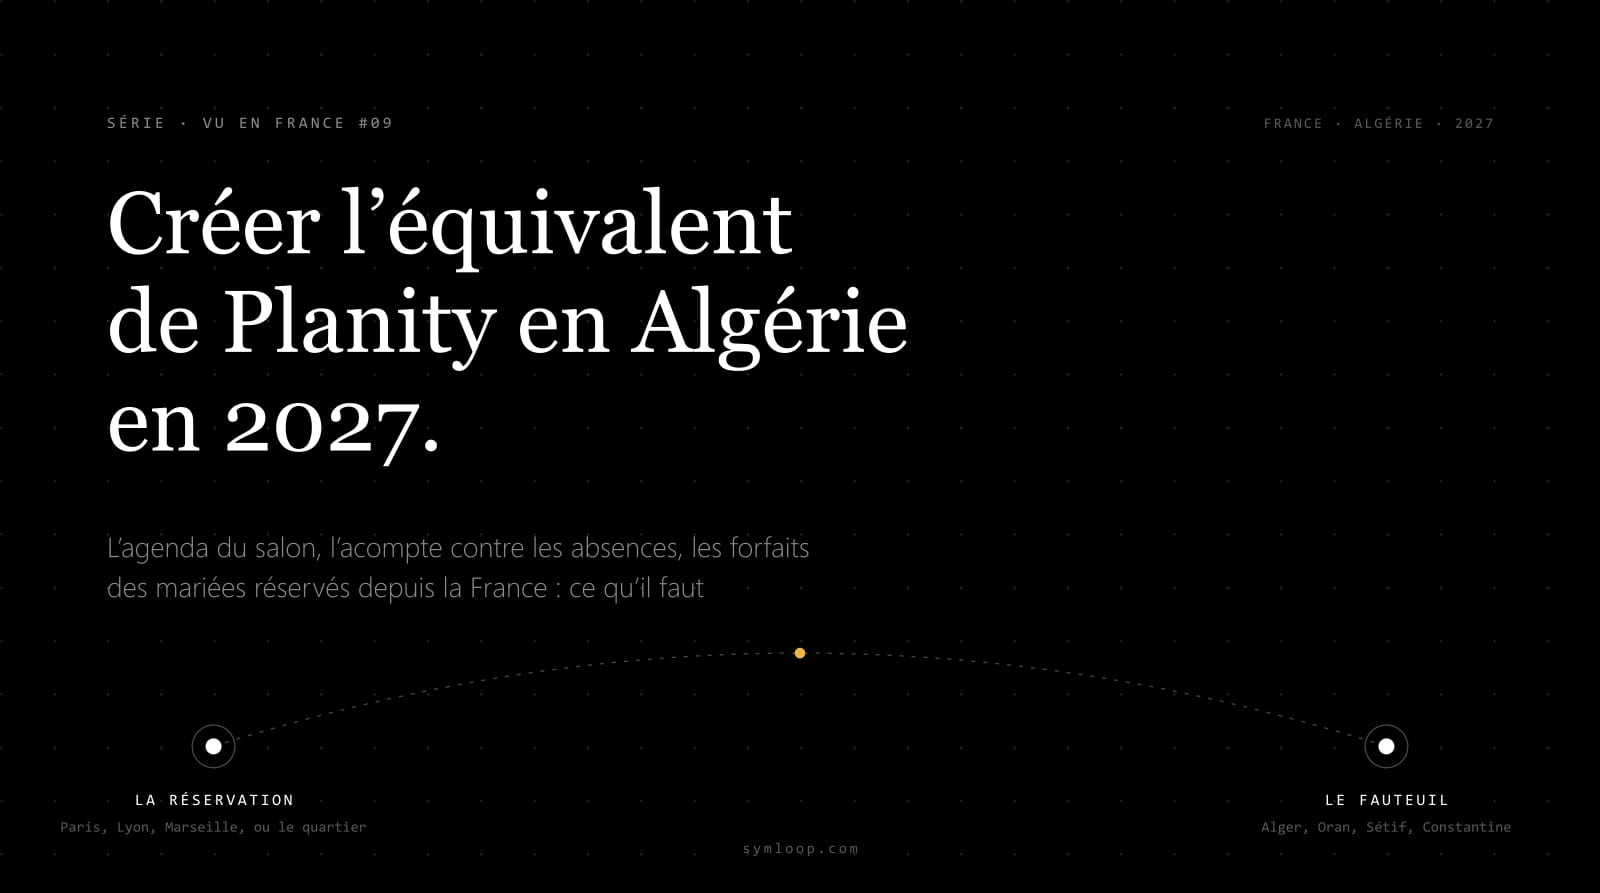
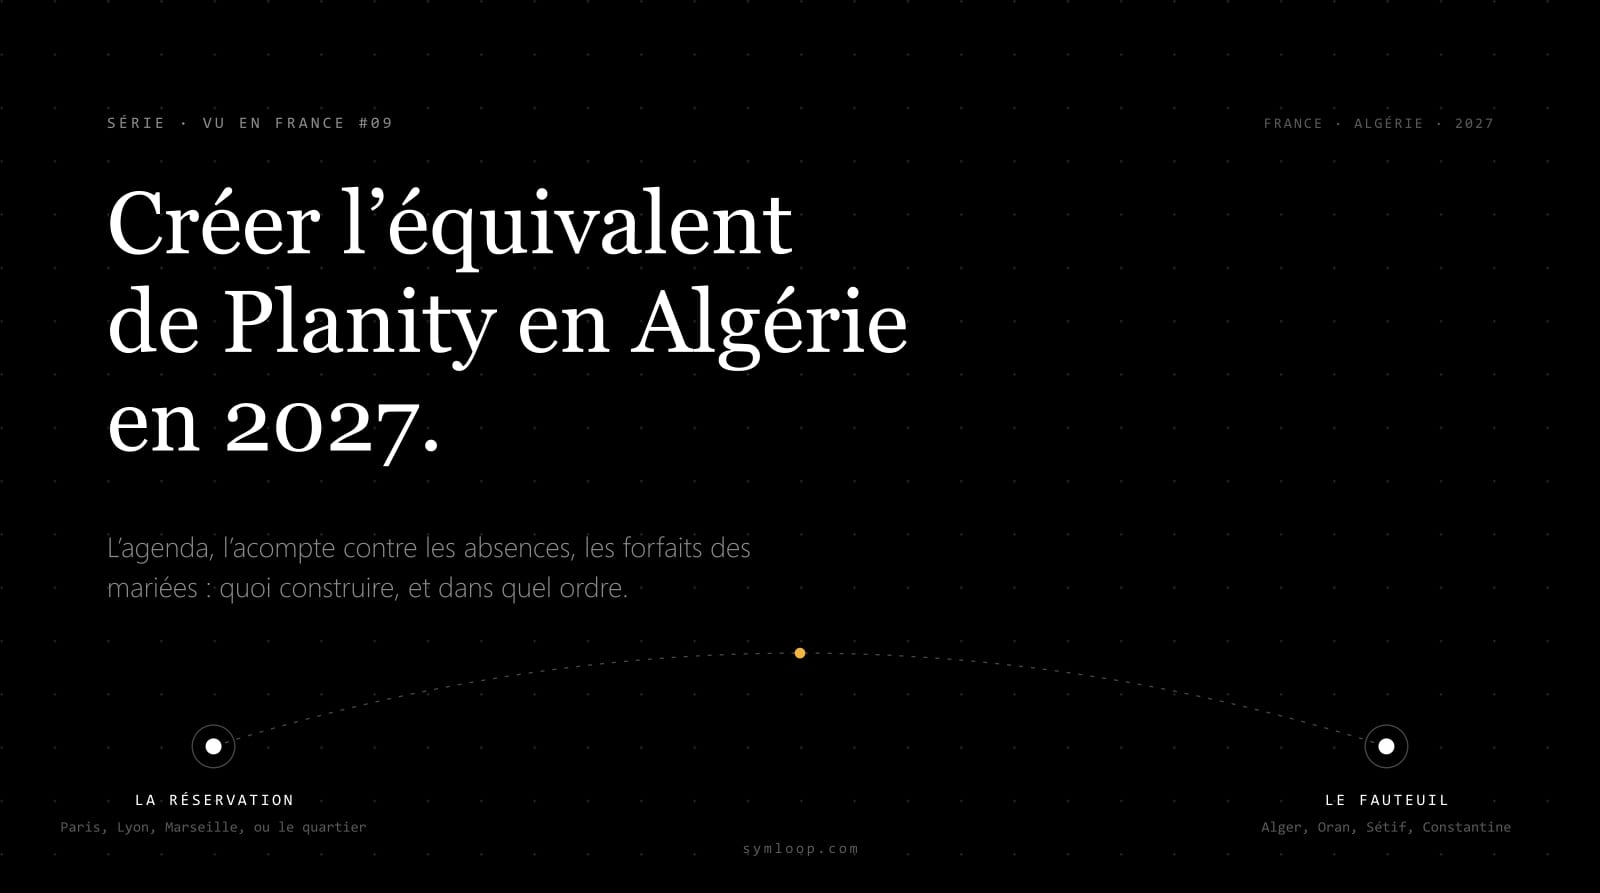
content(2027): series #09 — shorten cover subtitle, soften no-show phrasing in the dek
Claude-Session: https://claude.ai/code/session_01PABYe4YH7da7eUieuEtAzR

Changed region(s): [[0.0625, 0.6047, 0.5, 0.6652]]

diff --git a/src/pages/blog/creer-equivalent-planity-algerie-2027-reservation-salon-beaute-acompte-mariees.jsx b/src/pages/blog/creer-equivalent-planity-algerie-2027-reservation-salon-beaute-acompte-mariees.jsx
@@ -10,7 +10,7 @@ const DATE = '2026-11-01';
 const CONTENT = {
   fr: {
     kind: 'Série · Vu en France #09', title: "Créer l'équivalent de Planity en Algérie en 2027 : la réservation des salons de beauté, l'acompte contre les absences et la saison des mariées.",
-    dek: "En France, une cliente réserve sa coiffeuse en trente secondes, à 23 h, sur son téléphone, et reçoit un rappel la veille. En Algérie, le salon prend ses rendez-vous en messages privés sur Instagram et sur WhatsApp, les note dans un cahier, et découvre le samedi matin qu'une cliente sur six ne viendra pas. Ce qu'une plateforme doit faire à chaque moment du rendez-vous, le calcul qui justifie l'acompte, ce qu'il faut construire en premier, le marché des mariées de la diaspora, et le calendrier pour être prêt avant l'Aïd et l'été 2027.",
+    dek: "En France, une cliente réserve sa coiffeuse en trente secondes, à 23 h, sur son téléphone, et reçoit un rappel la veille. En Algérie, le salon prend ses rendez-vous en messages privés sur Instagram et sur WhatsApp, les note dans un cahier, et découvre le samedi matin que plusieurs clientes ne viendront pas. Ce qu'une plateforme doit faire à chaque moment du rendez-vous, le calcul qui justifie l'acompte, ce qu'il faut construire en premier, le marché des mariées de la diaspora, et le calendrier pour être prêt avant l'Aïd et l'été 2027.",
     publishedAt: 'Novembre 2026', readTime: '11 min de lecture', author: 'Symloop', about: ['Salons de beauté', 'Réservation en ligne', 'Logiciel salon', 'Diaspora', 'Algérie 2027'],
     intro: [
       "**Réponse courte.** L'équivalent de Planity en Algérie en 2027 n'est pas d'abord un annuaire de salons : c'est **l'outil du salon**, un agenda par employée avec les vraies durées des prestations, un acompte qui tient le créneau, des rappels qui libèrent les places à temps, et une fiche cliente privée. Planity a gagné en France en vendant ce logiciel aux salons ; l'annuaire est venu par-dessus. En Algérie, des annuaires existent déjà à Alger ; ce qui manque, c'est l'acompte, l'agenda juste, et un produit que personne ne fait encore bien : **le forfait de la mariée qui vit en France et se marie en Algérie**. Pour être prêt, il faut que l'outil tourne **avant le Ramadan**, donc commencer en novembre.",
@@ -92,7 +92,7 @@ const CONTENT = {
   },
   en: {
     kind: 'Series · Seen in France #09', title: "Building the Planity of Algeria in 2027: salon booking, a deposit against no-shows, and the bridal season.",
-    dek: "In France, a client books her hairdresser in thirty seconds, at 11 pm, on her phone, and gets a reminder the day before. In Algeria, the salon takes its bookings in Instagram and WhatsApp messages, writes them in a notebook, and finds out on Saturday morning that one client in six will not come. What a platform must do at each moment of the appointment, the calculation that justifies a deposit, what to build first, the market of diaspora brides, and the calendar to be ready before Eid and summer 2027.",
+    dek: "In France, a client books her hairdresser in thirty seconds, at 11 pm, on her phone, and gets a reminder the day before. In Algeria, the salon takes its bookings in Instagram and WhatsApp messages, writes them in a notebook, and finds out on Saturday morning that several clients will not come. What a platform must do at each moment of the appointment, the calculation that justifies a deposit, what to build first, the market of diaspora brides, and the calendar to be ready before Eid and summer 2027.",
     publishedAt: 'November 2026', readTime: '11 min read', author: 'Symloop', about: ['Beauty salons', 'Online booking', 'Salon software', 'Diaspora', 'Algeria 2027'],
     intro: [
       "**Short answer.** The Planity of Algeria in 2027 is not first a salon directory: it is **the salon's tool**, a calendar per employee with the real length of each service, a deposit that holds the slot, reminders that release places in time, and a private client card. Planity won in France by selling that software to salons; the directory came on top. In Algeria, directories already exist in Algiers; what is missing is the deposit, a true calendar, and a product nobody does well yet: **the package for the bride who lives in France and marries in Algeria**. To be ready, the tool must run **before Ramadan**, so start in November.",
@@ -174,7 +174,7 @@ const CONTENT = {
   },
   ar: {
     kind: 'سلسلة · رأيناه في فرنسا #09', title: "إنشاء مقابل Planity في الجزائر سنة 2027: حجز صالونات التجميل، العربون ضد الغياب، وموسم العرائس.",
-    dek: "في فرنسا تحجز الزبونة حلاقتها في ثلاثين ثانية، على الساعة الحادية عشرة ليلاً، من هاتفها، وتتلقى تذكيراً في اليوم السابق. في الجزائر يأخذ الصالون مواعيده في رسائل إنستغرام وواتساب، ويكتبها في دفتر، ويكتشف صباح السبت أن زبونة من كل ست لن تأتي. ما يجب أن تفعله المنصة في كل لحظة من الموعد، والحساب الذي يبرّر العربون، وما يُبنى أولاً، وسوق عرائس الجالية، والجدول الزمني للجاهزية قبل العيد وصيف 2027.",
+    dek: "في فرنسا تحجز الزبونة حلاقتها في ثلاثين ثانية، على الساعة الحادية عشرة ليلاً، من هاتفها، وتتلقى تذكيراً في اليوم السابق. في الجزائر يأخذ الصالون مواعيده في رسائل إنستغرام وواتساب، ويكتبها في دفتر، ويكتشف صباح السبت أن عدة زبونات لن يأتين. ما يجب أن تفعله المنصة في كل لحظة من الموعد، والحساب الذي يبرّر العربون، وما يُبنى أولاً، وسوق عرائس الجالية، والجدول الزمني للجاهزية قبل العيد وصيف 2027.",
     publishedAt: 'نوفمبر 2026', readTime: '11 دقيقة قراءة', author: 'Symloop', about: ['صالونات التجميل', 'الحجز عبر الإنترنت', 'برنامج الصالون', 'الجالية', 'الجزائر 2027'],
     intro: [
       "**الجواب المختصر.** مقابل Planity في الجزائر سنة 2027 ليس أولاً دليلاً للصالونات، بل هو **أداة الصالون**: رزنامة لكل عاملة بالمدة الحقيقية لكل خدمة، وعربون يحجز الموعد، وتذكير يحرّر الأماكن في الوقت، وبطاقة زبونة خاصة. ربحت Planity في فرنسا ببيع هذا البرنامج للصالونات، وجاء الدليل فوقه. في الجزائر توجد أدلة في العاصمة، أما الناقص فهو العربون والرزنامة الصحيحة ومنتج لا يتقنه أحد بعد: **باقة العروس التي تعيش في فرنسا وتتزوج في الجزائر**. ولتكون جاهزاً، يجب أن تعمل الأداة **قبل رمضان**، أي أن تبدأ في نوفمبر.",
